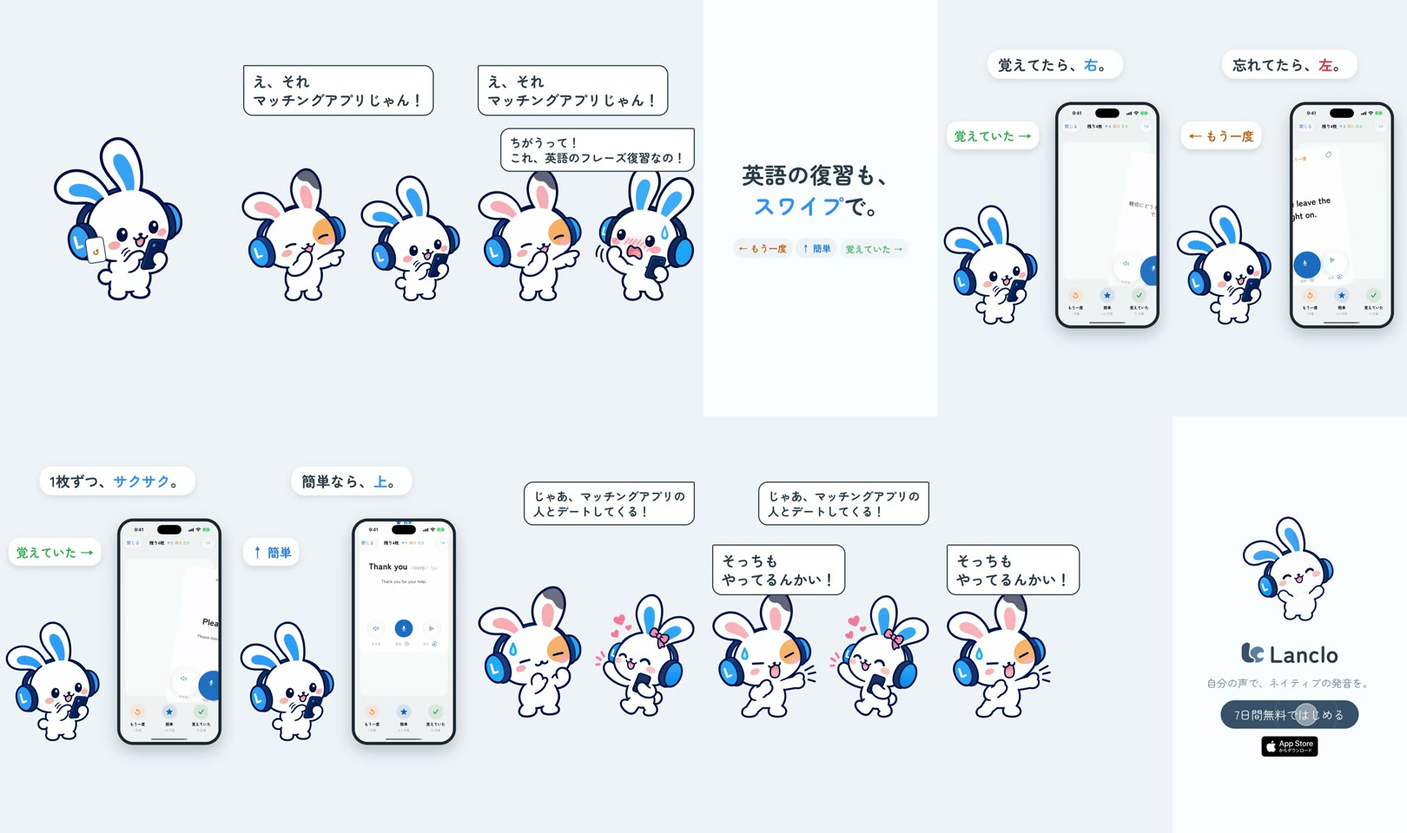
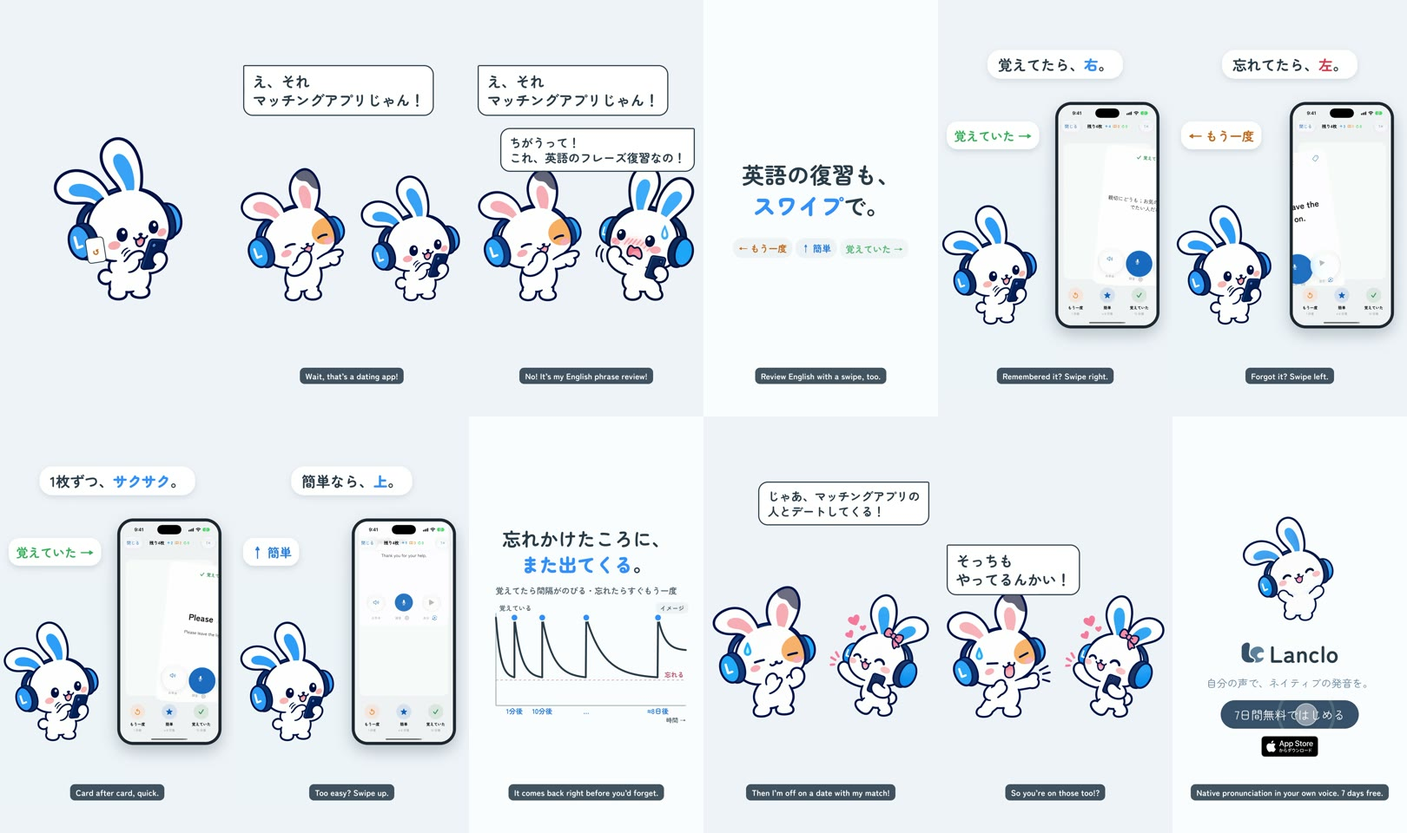
Swipe review: quicker third swipe, forgetting-curve card for why cards come back

diff --git a/films/mimi-swipe/source/hf/index.html b/films/mimi-swipe/source/hf/index.html
@@ -45,25 +45,31 @@
       .sub { position: absolute; left: 30px; right: 30px; bottom: 150px; display: flex; justify-content: center; }
       .sub span { display: block; max-width: 1000px; background: rgba(39, 59, 75, 0.88); color: #ffffff; font-size: 38px; line-height: 1.35;
                   font-weight: 700; text-align: center; padding: 12px 26px; border-radius: 22px; }
+      .type.curve { gap: 34px; }
+      .type.curve .big { font-size: 86px; }
+      .subline { font-size: 38px; font-weight: 700; color: #596875; }
+      .graph { position: relative; }
+      .graph svg { display: block; font-family: "Zen Maru Gothic", sans-serif; font-weight: 700; }
+      .img-tag { position: absolute; right: 10px; top: -6px; background: #eef2f5; color: #596875; font-size: 28px; font-weight: 700; padding: 6px 18px; border-radius: 20px; }
     </style>
   </head>
   <body>
-    <div id="root" data-composition-id="main" data-start="0" data-duration="17.4" data-width="1080" data-height="1920">
+    <div id="root" data-composition-id="main" data-start="0" data-duration="17.95" data-width="1080" data-height="1920">
       <!-- The real app (5.0-12.92): Mimi swiping along beside the phone -->
       <div id="demo">
         <div id="mimi">
-          <video id="v-swipe" class="clip" src="assets/shots/swipe.mp4" muted playsinline data-start="4.9" data-duration="8.1" data-track-index="1"></video>
+          <video id="v-swipe" class="clip" src="assets/shots/swipe.mp4" muted playsinline data-start="4.9" data-duration="7.05" data-track-index="1"></video>
         </div>
         <div id="device">
           <div id="screen">
-            <video id="a-app" class="clip" src="assets/app/app.mp4" muted playsinline data-start="5" data-duration="7.92" data-track-index="2"></video>
+            <video id="a-app" class="clip" src="assets/app/app.mp4" muted playsinline data-start="5" data-duration="6.95" data-track-index="2"></video>
           </div>
         </div>
       </div>
-      <div id="d1" class="dir good clip" data-start="5.32" data-duration="1.45" data-track-index="3">覚えていた <b>→</b></div>
-      <div id="d2" class="dir again clip" data-start="7.08" data-duration="1.3" data-track-index="3"><b>←</b> もう一度</div>
-      <div id="d3" class="dir good clip" data-start="8.76" data-duration="1.3" data-track-index="3">覚えていた <b>→</b></div>
-      <div id="d4" class="dir easy clip" data-start="10.52" data-duration="1.5" data-track-index="3"><b>↑</b> 簡単</div>
+      <div id="d1" class="dir good clip" data-start="5.16" data-duration="1.45" data-track-index="3">覚えていた <b>→</b></div>
+      <div id="d2" class="dir again clip" data-start="6.92" data-duration="1.3" data-track-index="3"><b>←</b> もう一度</div>
+      <div id="d3" class="dir good clip" data-start="8.33" data-duration="0.85" data-track-index="3">覚えていた <b>→</b></div>
+      <div id="d4" class="dir easy clip" data-start="9.55" data-duration="1.5" data-track-index="3"><b>↑</b> 簡単</div>
 
       <!-- Opening (0-3.95): Mimi swiping away; the friend teases; Mimi denies -->
       <div id="open" class="stage clip" data-start="0" data-duration="3.95" data-track-index="4">
@@ -83,8 +89,28 @@
         <div class="row"><span id="p1" class="pill again">← もう一度</span><span id="p2" class="pill easy">↑ 簡単</span><span id="p3" class="pill good">覚えていた →</span></div>
       </div>
 
+      <!-- Why the cards come back (11.95-14.25): a forgetting curve, picture only; times are the app's own button labels -->
+      <div id="curve" class="type curve clip" data-start="11.95" data-duration="2.35" data-track-index="11">
+        <div id="big2" class="big">忘れかけたころに、<br /><strong>また出てくる</strong>。</div>
+        <div id="subline" class="subline">覚えてたら間隔がのびる・忘れたらすぐもう一度</div>
+        <div class="graph">
+          <svg id="fc" viewBox="0 0 900 520" width="960" height="555">
+            <defs><clipPath id="reveal"><rect id="rv" x="0" y="0" width="0" height="520" /></clipPath></defs>
+            <line x1="60" y1="40" x2="60" y2="440" stroke="#9fb0bd" stroke-width="4" />
+            <line x1="60" y1="440" x2="880" y2="440" stroke="#9fb0bd" stroke-width="4" />
+            <line x1="60" y1="330" x2="880" y2="330" stroke="#e5a0a8" stroke-width="3" stroke-dasharray="10 10" />
+            <text x="872" y="318" text-anchor="end" font-size="28" fill="#c25a68">忘れる</text>
+            <text x="74" y="30" font-size="28" fill="#596875">覚えている</text>
+            <text x="880" y="514" text-anchor="end" font-size="26" fill="#596875">時間 →</text>
+            <path id="fcline" d="" fill="none" stroke="#273b4b" stroke-width="8" stroke-linejoin="round" stroke-linecap="round" clip-path="url(#reveal)" />
+            <g id="fcdots"></g>
+          </svg>
+          <div class="img-tag">イメージ</div>
+        </div>
+      </div>
+
       <!-- Ending (12.92-15.7): off to a date; the friend's retort -->
-      <div id="close" class="stage clip" data-start="12.92" data-duration="3.25" data-track-index="6">
+      <div id="close" class="stage clip" data-start="14.25" data-duration="2.65" data-track-index="6">
         <img id="f-oops" class="friend" src="assets/art/friend-oops.webp" alt="" />
         <img id="f-tsk" class="friend" src="assets/art/friend-tsukkomi.webp" alt="" />
         <img id="m-date" class="mimi" src="assets/art/date.webp" alt="" />
@@ -93,26 +119,28 @@
       </div>
 
       <!-- Captions (one track) -->
-      <div id="cap-1" class="caption clip" data-start="5.05" data-duration="1.95" data-track-index="7"><span id="c1">覚えてたら、<strong>右</strong>。</span></div>
-      <div id="cap-2" class="caption clip" data-start="7" data-duration="1.7" data-track-index="7"><span id="c2">忘れてたら、<em>左</em>。</span></div>
-      <div id="cap-3" class="caption clip" data-start="8.7" data-duration="1.75" data-track-index="7"><span id="c3">1枚ずつ、<strong>サクサク</strong>。</span></div>
-      <div id="cap-4" class="caption clip" data-start="10.45" data-duration="2.47" data-track-index="7"><span id="c4">簡単なら、<strong>上</strong>。</span></div>
+      <div id="cap-1" class="caption clip" data-start="5.05" data-duration="1.85" data-track-index="7"><span id="c1">覚えてたら、<strong>右</strong>。</span></div>
+      <div id="cap-2" class="caption clip" data-start="6.9" data-duration="1.38" data-track-index="7"><span id="c2">忘れてたら、<em>左</em>。</span></div>
+      <div id="cap-3" class="caption clip" data-start="8.28" data-duration="0.95" data-track-index="7"><span id="c3">1枚ずつ、<strong>サクサク</strong>。</span></div>
+      <div id="cap-4" class="caption clip" data-start="9.23" data-duration="2.72" data-track-index="7"><span id="c4">簡単なら、<strong>上</strong>。</span></div>
 
-      <div id="end" class="end clip" data-start="16.1" data-duration="1.3" data-track-index="8"></div>
+      <div id="end" class="end clip" data-start="16.85" data-duration="1.1" data-track-index="8"></div>
+
 
       <!-- English subtitles (one track) -->
       <div class="sub clip" data-start="0.95" data-duration="1.35" data-track-index="10"><span>Wait, that’s a dating app!</span></div>
       <div class="sub clip" data-start="2.3" data-duration="1.6" data-track-index="10"><span>No! It’s my English phrase review!</span></div>
       <div class="sub clip" data-start="3.9" data-duration="1.15" data-track-index="10"><span>Review English with a swipe, too.</span></div>
-      <div class="sub clip" data-start="5.05" data-duration="1.95" data-track-index="10"><span>Remembered it? Swipe right.</span></div>
-      <div class="sub clip" data-start="7.0" data-duration="1.7" data-track-index="10"><span>Forgot it? Swipe left.</span></div>
-      <div class="sub clip" data-start="8.7" data-duration="1.75" data-track-index="10"><span>One card at a time, nice and quick.</span></div>
-      <div class="sub clip" data-start="10.45" data-duration="2.47" data-track-index="10"><span>Too easy? Swipe up.</span></div>
-      <div class="sub clip" data-start="12.92" data-duration="1.78" data-track-index="10"><span>Then I’m off on a date with my match!</span></div>
-      <div class="sub clip" data-start="14.7" data-duration="1.4" data-track-index="10"><span>So you’re on those too!?</span></div>
-      <div class="sub clip" data-start="16.1" data-duration="1.3" data-track-index="10"><span>Native pronunciation in your own voice. 7 days free.</span></div>
+      <div class="sub clip" data-start="5.05" data-duration="1.85" data-track-index="10"><span>Remembered it? Swipe right.</span></div>
+      <div class="sub clip" data-start="6.9" data-duration="1.38" data-track-index="10"><span>Forgot it? Swipe left.</span></div>
+      <div class="sub clip" data-start="8.28" data-duration="0.95" data-track-index="10"><span>Card after card, quick.</span></div>
+      <div class="sub clip" data-start="9.23" data-duration="2.72" data-track-index="10"><span>Too easy? Swipe up.</span></div>
+      <div class="sub clip" data-start="11.95" data-duration="2.3" data-track-index="10"><span>It comes back right before you’d forget.</span></div>
+      <div class="sub clip" data-start="14.25" data-duration="1.5" data-track-index="10"><span>Then I’m off on a date with my match!</span></div>
+      <div class="sub clip" data-start="15.75" data-duration="1.1" data-track-index="10"><span>So you’re on those too!?</span></div>
+      <div class="sub clip" data-start="16.85" data-duration="1.1" data-track-index="10"><span>Native pronunciation in your own voice. 7 days free.</span></div>
 
-      <audio id="mix" src="assets/mix.wav" data-start="0" data-duration="17.4" data-track-index="9" data-volume="1"></audio>
+      <audio id="mix" src="assets/mix.wav" data-start="0" data-duration="17.95" data-track-index="9" data-volume="1"></audio>
     </div>
     <script>
       const K = window.MimiKit;
@@ -148,26 +176,48 @@
       // The real app (5.0-12.92)
       tl.set("#mimi", { x: -240, y: 150, scale: 0.55 }, 4.9);
       tl.fromTo("#device", { y: 60 }, { y: 0, duration: 0.3, ease: "power3.out" }, 4.95);
-      [["#d1", 5.32, 6.6], ["#d2", 7.08, 8.2], ["#d3", 8.76, 9.88], ["#d4", 10.52, 11.85]].forEach(([s, a, b]) => {
+      [["#d1", 5.16, 6.45], ["#d2", 6.92, 8.05], ["#d3", 8.33, 9.03], ["#d4", 9.55, 10.9]].forEach(([s, a, b]) => {
         tl.fromTo(s, { scale: 0.7, opacity: 0 }, { scale: 1, opacity: 1, duration: 0.18, ease: "back.out(2)" }, a);
         tl.to(s, { opacity: 0, duration: 0.15 }, b);
       });
-      k.pop("#c1", 5.05); k.pop("#c2", 7); k.pop("#c3", 8.7); k.pop("#c4", 10.45);
+      k.pop("#c1", 5.05); k.pop("#c2", 6.9); k.pop("#c3", 8.28); k.pop("#c4", 9.23);
 
       // Ending (12.92-15.7): "then I'm off on a date with my match!" — "so you ARE using one?!"
-      tl.fromTo("#m-date", { x: 60, opacity: 0 }, { x: 0, opacity: 1, duration: 0.2, ease: "back.out(1.6)" }, 12.92);
-      tl.fromTo("#m-date", { y: 0 }, { y: -24, duration: 0.16, yoyo: true, repeat: 9, ease: "sine.out", immediateRender: false }, 13.05);
-      tl.fromTo("#f-oops", { opacity: 1 }, { opacity: 1, duration: 0.01 }, 12.92);
-      tl.fromTo("#b-date", { scale: 0.7, opacity: 0 }, { scale: 1, opacity: 1, duration: 0.18, ease: "back.out(2)" }, 13.0);
-      tl.set("#f-oops", { opacity: 0 }, 14.7);
-      tl.fromTo("#f-tsk", { opacity: 0, x: -30 }, { opacity: 1, x: 30, duration: 0.1, ease: "power3.out" }, 14.7);
-      tl.to("#f-tsk", { x: 0, duration: 0.25, ease: "elastic.out(1, 0.4)" }, 14.8);
-      tl.fromTo("#b-tsk", { scale: 1.4, opacity: 0 }, { scale: 1, opacity: 1, duration: 0.15, ease: "back.out(2)" }, 14.7);
-      tl.to("#b-date", { opacity: 0, duration: 0.15 }, 15.2);
-      tl.to("#m-date", { x: 700, duration: 0.45, ease: "power2.in" }, 15.25);
+      tl.fromTo("#m-date", { x: 60, opacity: 0 }, { x: 0, opacity: 1, duration: 0.2, ease: "back.out(1.6)" }, 14.25);
+      tl.fromTo("#m-date", { y: 0 }, { y: -24, duration: 0.16, yoyo: true, repeat: 7, ease: "sine.out", immediateRender: false }, 14.38);
+      tl.fromTo("#f-oops", { opacity: 1 }, { opacity: 1, duration: 0.01 }, 14.25);
+      tl.fromTo("#b-date", { scale: 0.7, opacity: 0 }, { scale: 1, opacity: 1, duration: 0.18, ease: "back.out(2)" }, 14.33);
+      tl.set("#f-oops", { opacity: 0 }, 15.75);
+      tl.fromTo("#f-tsk", { opacity: 0, x: -30 }, { opacity: 1, x: 30, duration: 0.1, ease: "power3.out" }, 15.75);
+      tl.to("#f-tsk", { x: 0, duration: 0.25, ease: "elastic.out(1, 0.4)" }, 15.85);
+      tl.fromTo("#b-tsk", { scale: 1.4, opacity: 0 }, { scale: 1, opacity: 1, duration: 0.15, ease: "back.out(2)" }, 15.75);
+      tl.to("#b-date", { opacity: 0, duration: 0.15 }, 16.15);
+      tl.to("#m-date", { x: 700, duration: 0.45, ease: "power2.in" }, 16.25);
 
-      k.end(16.1);
-      k.tapCta(16.55);
+      // Forgetting curve (11.95-14.25): decays toward 忘れる, a review dot pops just before it and lifts it; the gaps grow
+      (function () {
+        const top = 60, low = 318, pts = [60, 140, 260, 450, 760], tail = 880, labels = ["1分後", "10分後", "…", "≈8日後"];
+        let d = `M${pts[0]},${top}`;
+        const seg = (x0, x1, to) => { const a = 4 / (x1 - x0); for (let x = x0; x <= x1; x += 4) {
+          d += ` L${x},${(top + (to - top) * (1 - Math.exp(-a * (x - x0))) / (1 - Math.exp(-4))).toFixed(1)}`; } };
+        for (let i = 0; i < pts.length - 1; i++) { seg(pts[i], pts[i + 1], low); d += ` L${pts[i + 1]},${top}`; }
+        seg(pts[pts.length - 1], tail, 200);
+        document.getElementById("fcline").setAttribute("d", d);
+        document.getElementById("fcdots").innerHTML = pts.slice(1).map((x, i) =>
+          `<g class="fcd" id="fcd${i}"><circle cx="${x}" cy="${top}" r="15" fill="#2a8dff" stroke="#fff" stroke-width="5" />` +
+          `<text x="${x}" y="476" text-anchor="middle" font-size="30" fill="#1f7ae0">${labels[i]}</text></g>`).join("");
+        tl.fromTo("#curve", { opacity: 0 }, { opacity: 1, duration: 0.12 }, 11.95);
+        tl.fromTo("#big2", { y: 40, opacity: 0 }, { y: 0, opacity: 1, duration: 0.25, ease: "power3.out" }, 12.0);
+        tl.fromTo("#subline", { opacity: 0 }, { opacity: 1, duration: 0.2 }, 12.15);
+        tl.fromTo("#rv", { attr: { width: 60 } }, { attr: { width: 900 }, duration: 1.7, ease: "none" }, 12.3);
+        pts.slice(1).forEach((x, i) => {
+          const at = 12.3 + 1.7 * (x - 60) / 840;
+          tl.fromTo(`#fcd${i}`, { opacity: 0, scale: 0.3, transformOrigin: `${x}px ${top}px` }, { opacity: 1, scale: 1, duration: 0.2, ease: "back.out(3)" }, at);
+        });
+      })();
+
+      k.end(16.85);
+      k.tapCta(17.3);
 
       window.__timelines["main"] = tl;
       tl.seek(0);

diff --git a/films/mimi-swipe/source/scripts/mix.py b/films/mimi-swipe/source/scripts/mix.py
@@ -14,14 +14,16 @@ FLICKS = (0.15, 0.45, 0.75)         # hook: cards flick off Mimi's phone
 TEASE = 0.95                       # the friend: マッチングアプリじゃん！
 DENY = 2.3                         # Mimi: ちがうって！
 COPY = 3.9                         # 英語の復習も、スワイプで。
-DRAGS = (5.32, 7.08, 8.76, 10.52)  # the real app: right, left, right, up (scripts/app_track.sh)
-FLY = (6.44, 8.04, 9.72, 11.48)    # each card is let go
-DATE = 12.9                        # じゃあ、デートしてくる！
-TSUKKOMI = 14.7                    # そっちもやってるんかい！
-END = 16.1
+DRAGS = (5.16, 6.92, 8.33, 9.55)   # the real app: right, left, right, up (scripts/app_track.sh)
+FLY = (6.28, 7.88, 8.93, 10.51)     # each card is let go
+DATE = 14.25                       # じゃあ、デートしてくる！
+CURVE = 11.95                      # 忘れかけたころに、また出てくる。 (forgetting-curve card)
+CURVE_DOTS = (12.47, 12.71, 13.11, 13.75) # review dots pop on the curve
+TSUKKOMI = 15.75                   # そっちもやってるんかい！
+END = 16.85
 CTA_TAP = END + 0.45
 
-m = Mix(17.4)
+m = Mix(17.95)
 for at in FLICKS:
     m.sfx(whoosh(0.22, 0.16), at)
 m.sfx(pofu() * 0.45, TEASE)
@@ -32,6 +34,9 @@ for at in DRAGS:
     m.sfx(tap() * 0.35, at)
 for at in FLY:
     m.sfx(whoosh(0.3, 0.22), at)
+m.sfx(pop_seq(2, 0.05, base=76), CURVE)
+for i, at in enumerate(CURVE_DOTS):
+    m.sfx(bell(79 + 2 * i, 0.4, 0.035), at)
 m.sfx(bell(84, 0.6, 0.05), DATE + 0.1)
 m.sfx(clang(0.2), TSUKKOMI)
 m.sfx(pofu() * 0.4, TSUKKOMI + 0.05)

diff --git a/films/mimi-swipe/PROMPT.md b/films/mimi-swipe/PROMPT.md
@@ -1,12 +1,13 @@
 # 統合プロンプト（完成形から逆算した指示。最初の入力の原文ではない）
 
-Lancloの復習カード（マッチングアプリのように右・左・上へスワイプ）を紹介するMimiショートを作る。17秒前後、1080×1920・60fps、声なし（吹き出しと字幕）。
+Lancloの復習カード（マッチングアプリのように右・左・上へスワイプ）を紹介するMimiショートを作る。18秒以内、1080×1920・60fps、声なし（吹き出しと字幕）。
 
 1. 0–0.9秒：フック。Mimiが真ん中でスマホを見てにやけ、画面からカード（✓・↺）が右・左・右へ飛ぶ。
 2. 0.9–3.9秒：友だちが左から入り「え、それ マッチングアプリじゃん！」（指さしてニヤニヤ）。2.3秒、Mimiが慌てて「ちがうって！ これ、英語のフレーズ復習なの！」。
 3. 3.9–5.0秒：白い画面にコピー1行「英語の復習も、スワイプで。」、下に「← もう一度」「↑ 簡単」「覚えていた →」のラベル。
-4. 5.0–12.9秒：実際のアプリ。シミュレーターでフィクスチャのノートを開き、カードをゆっくりドラッグして離す（右・左・右・上）。1.25倍速、カードが同じところでつなぐ。左にアプリと同じ文言と色のチップ（覚えていた→／←もう一度／↑簡単）、上に字幕（覚えてたら、右。／忘れてたら、左。／1枚ずつ、サクサク。／簡単なら、上。）。Mimiは横でスマホを持って揺れる。
-5. 12.9–16.1秒：オチ。Mimi（リボン・ハート）「じゃあ、マッチングアプリの人とデートしてくる！」、友だちが手の甲でツッコミ「そっちもやってるんかい！」、Mimiは右へ退場。
+4. 5.0–12.9秒：実際のアプリ。シミュレーターでフィクスチャのノートを開き、カードをゆっくりドラッグして離す（右・左・右・上）。1.25倍速、カードが同じところでつなぐ。左にアプリと同じ文言と色のチップ（覚えていた→／←もう一度／↑簡単）、上に字幕（覚えてたら、右。／忘れてたら、左。／1枚ずつ、サクサク。（約1秒、2倍速）／簡単なら、上。）。Mimiは横でスマホを持って揺れる。
+4b. 11.95–14.25秒：なぜまた出てくるか。白いカードに「忘れかけたころに、また出てくる。」、小さく「覚えてたら間隔がのびる・忘れたらすぐもう一度」。忘却曲線（イメージのタグ）：紺の線が下がり、「忘れる」の点線の手前で青い点が出て線が戻り、次の下がり方はゆるやかに、点の間隔が広がる。ラベルはアプリのボタンにある時間だけ（1分後 → 10分後 → … → ≈8日後）。FSRSの中身や他の数字は書かない。
+5. 14.25–16.85秒：オチ。Mimi（リボン・ハート）「じゃあ、マッチングアプリの人とデートしてくる！」、友だちが手の甲でツッコミ「そっちもやってるんかい！」、Mimiは右へ退場。
 6. 16.1秒〜：エンドカード、CTAのタップに「ぽちっ」。BGMはLancloのSNSテーマ、SFXは小さめ。
 
 アプリにない機能は言わない（右＝覚えていた、左＝もう一度、上＝簡単。ボタンも同じ3つ）。友だちは前作（アクションボタン①）と同じキャラ。

diff --git a/films/mimi-swipe/README.ja.md b/films/mimi-swipe/README.ja.md
@@ -2,9 +2,9 @@
 
 [English](README.md) · **日本語**
 
-スマホでカードを右へ左へスワイプしているMimi。友だちが「え、それマッチングアプリじゃん！」。Mimi「ちがうって！これ、英語のフレーズ復習なの！」。白い画面に「英語の復習も、スワイプで。」、続いてLancloの復習カードの実画面（シミュレーター）：右＝覚えていた、左＝もう一度、上＝簡単。「もう一度」のカードはまた出てくる。最後はMimi「じゃあ、マッチングアプリの人とデートしてくる！」、友だち「そっちもやってるんかい！」。エンドカードでCTAをタップ。
+スマホでカードを右へ左へスワイプしているMimi。友だちが「え、それマッチングアプリじゃん！」。Mimi「ちがうって！これ、英語のフレーズ復習なの！」。白い画面に「英語の復習も、スワイプで。」、続いてLancloの復習カードの実画面（シミュレーター）：右＝覚えていた、左＝もう一度、上＝簡単。「もう一度」のカードはまた出てくる。なぜ出てくるのかを忘却曲線のカード（イメージ）で：「忘れかけたころに、また出てくる。」覚えてたら間隔がのびる・忘れたらすぐもう一度（時間はアプリのボタン表示の 1分後・10分後・≈8日後 だけ）。最後はMimi「じゃあ、マッチングアプリの人とデートしてくる！」、友だち「そっちもやってるんかい！」。エンドカードでCTAをタップ。
 
-0:17.4 / 1080×1920・60fps / 日本語の吹き出しと字幕・声なし / 2本：日本語のみ（`mimi-swipe.mp4`）と下に英語字幕つき（`mimi-swipe-en.mp4`） / 2DのMimiと友だち（切り抜き＋Riveショット1本、HyperFrames）＋フィクスチャのノートで録ったシミュレーターの画面録画
+0:17.95 / 1080×1920・60fps / 日本語の吹き出しと字幕・声なし / 2本：日本語のみ（`mimi-swipe.mp4`）と下に英語字幕つき（`mimi-swipe-en.mp4`） / 2DのMimiと友だち（切り抜き＋Riveショット1本、HyperFrames）＋フィクスチャのノートで録ったシミュレーターの画面録画
 
 ![完成フレーム](process/00-final-frames.jpg)
 

diff --git a/films/mimi-swipe/README.md b/films/mimi-swipe/README.md
@@ -2,9 +2,9 @@
 
 **English** · [日本語](README.ja.md)
 
-Mimi is flicking cards right and left on her phone. Her friend teases: "That's a dating app!" Mimi: "No! It's my English phrase review!" A white card says 「英語の復習も、スワイプで。」, then the real Lanclo review cards in the simulator: right = remembered (覚えていた), left = again (もう一度), up = easy (簡単), and the "again" card comes back. Mimi: "Then I'm off on a date with my match!" Friend: "So you ARE using one?!" End card with the CTA tap.
+Mimi is flicking cards right and left on her phone. Her friend teases: "That's a dating app!" Mimi: "No! It's my English phrase review!" A white card says 「英語の復習も、スワイプで。」, then the real Lanclo review cards in the simulator: right = remembered (覚えていた), left = again (もう一度), up = easy (簡単), and the "again" card comes back. A forgetting-curve card explains why: 「忘れかけたころに、また出てくる。」 (it comes back right before you'd forget; remembered → the gap grows, forgotten → again soon; times are the app's own 1分後 / 10分後 / ≈8日後). Mimi: "Then I'm off on a date with my match!" Friend: "So you ARE using one?!" End card with the CTA tap.
 
-0:17.4 / 1080×1920, 60 fps / Japanese speech bubbles and captions, no voices / two cuts: Japanese only (`mimi-swipe.mp4`) and with English subtitles at the bottom (`mimi-swipe-en.mp4`) / 2D Mimi and her friend (cut-outs + one Rive shot, HyperFrames) beside a simulator recording with fixture notes
+0:17.95 / 1080×1920, 60 fps / Japanese speech bubbles and captions, no voices / two cuts: Japanese only (`mimi-swipe.mp4`) and with English subtitles at the bottom (`mimi-swipe-en.mp4`) / 2D Mimi and her friend (cut-outs + one Rive shot, HyperFrames) beside a simulator recording with fixture notes
 
 ![Final frames](process/00-final-frames.jpg)
 

diff --git a/films/mimi-swipe/PROCESS.md b/films/mimi-swipe/PROCESS.md
@@ -26,3 +26,12 @@
 
 - オーナーの方針で、すべてのショートを「日本語のみ」と「下に英語字幕」の2本にする。字幕は吹き出し・字幕・コピー・エンドカードごとに1つ、自然な英語に（例「マッチングアプリじゃん！」→ "Wait, that’s a dating app!"、「そっちもやってるんかい！」→ "So you’re on those too!?"）。画面の下（bottom 150px）で、キャラや電話とは重ならない。
 - エンドカードの英語は1行に収まるよう短くした（"Native pronunciation in your own voice. 7 days free."）。
+
+## 覚え方のロジック（追加の指示）
+
+> 一枚ずつサクサクのところもう少し早く、短くていい。その代わりどういうロジックでまた復習に出してくるか。暗記にいいってことを伝えたい
+
+- 「1枚ずつ、サクサク。」の3枚目は2倍速で約1秒に（`scripts/app_track.sh`）。
+- 空いた時間で忘却曲線の白いカード（約2.3秒）。アプリのコードで確かめた事実だけ：復習の順番はFSRS（間隔反復。忘れかけたころに出てくる。覚えていたら間隔がのび、忘れたらすぐまた出る）。ボタンに出る次回の時間：もう一度 1分後／覚えていた 10分後／簡単 ≈8日後（新しいカード）。グラフは「イメージ」と明記し、ラベルはこの時間だけにした。
+- コピー「忘れかけたころに、また出てくる。」、英語字幕 "It comes back right before you'd forget."。
+- 全体は17.95秒（18秒以内）。「≈8日後」と「時間 →」のラベルが重なったので「時間 →」を一段下げた。

diff --git a/films/mimi-swipe/source/README.md b/films/mimi-swipe/source/README.md
@@ -25,9 +25,11 @@ kits/mimi-short/render-cuts.sh $F/hf mimi-swipe   # renders/mimi-swipe-en.mp4 (E
 | `scripts/app_track.sh` | Four swipes from the 60 fps take at 1.25x, cut on the same card so the joins don't show |
 | `scripts/shots.py`, `render.sh` | The Rive shot of Mimi swiping beside the phone |
 | `scripts/mix.py` | Cue sheet and sound (soft SFX, theme bed, end chord, CTA pochi) |
-| `hf/index.html` | The edit: hook with flying cards, two-shots with speech bubbles, copy card, phone + direction chips + captions, the retort, end card; English subtitles (`.sub`, hidden by `<body class="no-subs">`) |
+| `hf/index.html` | The edit: hook with flying cards, two-shots with speech bubbles, copy card, phone + direction chips + captions, the forgetting-curve card (SVG drawn in the page script, revealed left to right; labels are the app's button times), the retort, end card; English subtitles (`.sub`, hidden by `<body class="no-subs">`) |
 | `art/` | Codex drawings (PNG) and cut-outs (WebP); `art/friend/` the friend's drawings and her design reference (`chosen-2.png`) |
 
 If the take is re-recorded, re-measure the swipe times on a contact sheet of `renders/app/swipe-60.mp4` and update `scripts/app_track.sh`, the chip times in `hf/index.html` and `DRAGS`/`FLY` in `scripts/mix.py`.
+
+The forgetting curve is a picture (tagged イメージ), not the app's FSRS numbers: only the app's own next-review labels (もう一度 1分後, 覚えていた 10分後, 簡単 ≈8日後 for a new card) are written on it.
 
 Not in Git: the simulator take, `hf/assets/` (app track, shot, art copies, mix, staged kit), renders and the final MP4.
